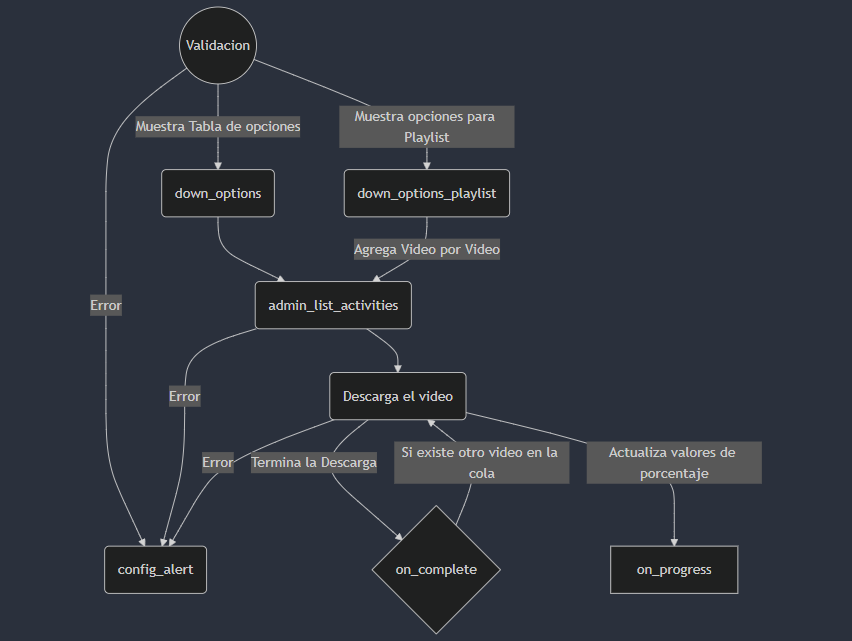
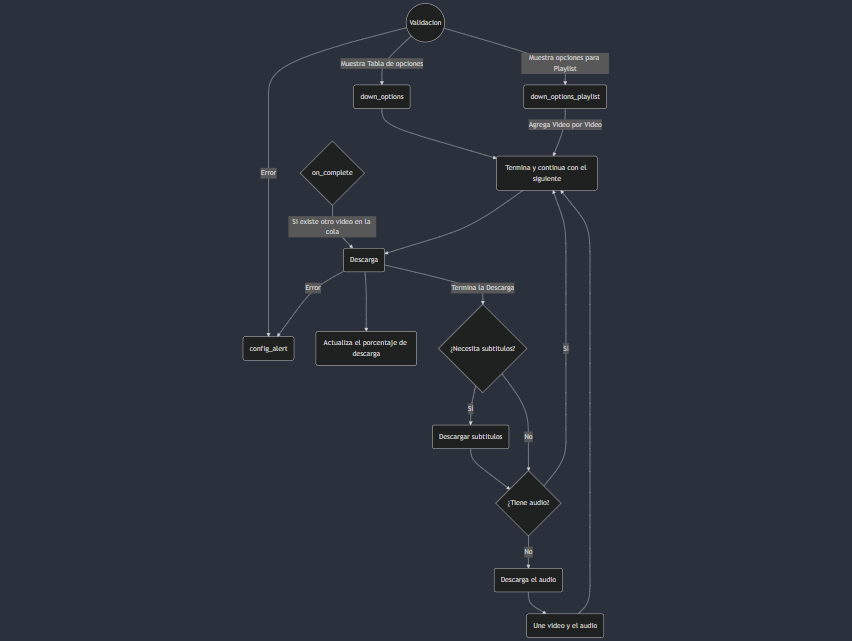
0.7.10b

diff --git a/main.py b/main.py
@@ -1,3 +1,8 @@
+import os.path
+import threading
+import time
+from math import floor
+
 import flet as ft
 from os import remove
 from moviepy.editor import *
@@ -5,7 +10,7 @@ from urllib import error
 from pytubefix import YouTube, Stream, Playlist, exceptions, StreamQuery, Caption
 from DownActivity import DownActivity
 from DownOption import DownOption
-from util import parsing_name_file
+from util import parsing_name_file, wrap_text
 
 DownActivitiesList: list[DownActivity] = []
 
@@ -41,8 +46,17 @@ def main(page: ft.Page):
     )
 
     list_down_options = ft.Column(
-        alignment=ft.MainAxisAlignment.SPACE_EVENLY,
+        alignment=ft.MainAxisAlignment.CENTER,
+        horizontal_alignment=ft.CrossAxisAlignment.CENTER,
+        width=1200,
         controls=[]
+    )
+
+    cancel_download_button = ft.IconButton(
+        icon=ft.icons.CLOSE,
+        icon_size=30,
+        disabled=True,
+        on_click=lambda e: cancel_download()
     )
 
     progress_ring = ft.Row([
@@ -69,7 +83,42 @@ def main(page: ft.Page):
 
         page.update()
 
+    def on_progress_conv(output_path: str, final_size):
+        # Hace un tiempo de espera antes de leer el archivo
+        # para que pueda encontrar el archivo exportado
+        time.sleep(5)
+
+        while True:
+            try:
+                file_size = os.path.getsize(output_path)
+                progress = (file_size / final_size) * 100
+                if progress >= 99:
+                    break
+                DownActivitiesList[0].set_progress_value(progress)
+                page.update()
+                time.sleep(3)
+            except FileNotFoundError:
+                time.sleep(10)
+                continue
+
+    def cancel_download():
+        list_down_options.controls.clear()
+        search_button.disabled = False
+        textfield_url.disabled = False
+        textfield_url.value = ""
+        page.update()
+
     def show_alert_error(err) -> ft.AlertDialog:
+        search_button.disabled = False
+        textfield_url.disabled = False
+        cancel_download_button.disabled = True
+        page.remove(progress_ring)
+
+        if len(DownActivitiesList) == 0:
+            estado.visible = False
+
+        page.update()
+
         alert = ft.AlertDialog(
             modal=True,
             adaptive=True,
@@ -79,7 +128,6 @@ def main(page: ft.Page):
                 ft.TextButton("Cerrar", on_click=lambda e: page.close(alert)),
             ],
         )
-
         return alert
 
     def on_progress(stream: Stream, chunk, bytes_remaining):
@@ -88,11 +136,6 @@ def main(page: ft.Page):
         porcent = bytes_dowloaded / total_filesize * 100
 
         DownActivitiesList[0].set_progress(round(porcent))
-        page.update()
-
-    def on_progress_convert():
-        DownActivitiesList[0].progress_bar.value = None
-        DownActivitiesList[0].progress_label.value = "Convirtiendo..."
         page.update()
 
     def admin_list_activities(stream: Stream = None, path: str = "", next_process: bool = False):
@@ -124,6 +167,7 @@ def main(page: ft.Page):
         try:
             search_button.disabled = True
             textfield_url.disabled = True
+            cancel_download_button.disabled = False
             page.add(progress_ring)
             page.update()
 
@@ -138,17 +182,8 @@ def main(page: ft.Page):
             page.update()
         except exceptions.RegexMatchError:
             page.open(show_alert_error("URL Inválida"))
-            search_button.disabled = False
-            textfield_url.disabled = False
-            page.remove(progress_ring)
-            page.update()
         except Exception as err:
-            page.open(show_alert_error(err))
-            print(type(err))
-            search_button.disabled = False
-            textfield_url.disabled = False
-            page.remove(progress_ring)
-            page.update()
+            page.open(show_alert_error(f"{type(err)} : {err}"))
 
     def download(stream: Stream, path: str = ""):
         yt: YouTube = YouTube(textfield_url.value)
@@ -170,13 +205,21 @@ def main(page: ft.Page):
                     if caption is not None:
                         caption.download(title=yt.title, output_path=path)
                 if not stream.is_progressive:
-                    on_progress_convert()
-                    audio_path = yt.streams.get_audio_only().download(path, mp3=True, filename=parsing_name_file(DownActivitiesList[0].yt.title))
+                    DownActivitiesList[0].progress_label.value = "Convirtiendo..."
+                    page.update()
+                    audio_path = yt.streams.get_audio_only().download(path, mp3=True, filename=parsing_name_file(
+                        DownActivitiesList[0].yt.title))
                     video = VideoFileClip(video_path)
                     audio = AudioFileClip(audio_path)
                     video.audio = CompositeAudioClip([audio])
+                    output_path = f"{path}\\{parsing_name_file(yt.title)}[{stream.resolution}].mp4"
+
+                    total_size = os.path.getsize(video_path) + os.path.getsize(audio_path)
+                    t = threading.Thread(target=on_progress_conv, args=(output_path, total_size))
+                    t.start()
                     video.write_videofile(
-                        f"{path}\\{parsing_name_file(yt.title)}[{stream.resolution}].mp4", threads=4)
+                        filename=output_path, threads=8, fps=30)
+                    t.join()
                     remove(video_path)
                     remove(audio_path)
             del DownActivitiesList[0]
@@ -185,20 +228,8 @@ def main(page: ft.Page):
             admin_list_activities(next_process=True)
         except error.URLError:
             page.open(show_alert_error("Revise su red, podría estar desconectado..."))
-            list_activity.controls.clear()
-            textfield_url.disabled = False
-            search_button.disabled = False
-            estado.visible = False
-            list_activity.controls.clear()
-            page.update()
-            return -1
         except Exception as err:
             page.open(show_alert_error(f"{type(err)} : {err}"))
-            textfield_url.disabled = False
-            search_button.disabled = False
-            estado.value = False
-            list_activity.controls.clear()
-            page.update()
 
     def download_playlist(playlist: Playlist, type_content: str):
         list_down_options.controls = []
@@ -233,25 +264,10 @@ def main(page: ft.Page):
         except FileExistsError:
             page.open(show_alert_error(
                 f"La carpeta {playlist.title} ya está creada, eliminela y luego inserte de nuevo la playlist"))
-            textfield_url.disabled = False
-            search_button.disabled = False
-            if len(DownActivitiesList) == 0:
-                estado.visible = False
-            page.remove(progress_ring)
         except error.URLError:
             page.open(show_alert_error("Revise su red, podría estar desconectado..."))
-            textfield_url.disabled = False
-            search_button.disabled = False
-            if len(DownActivitiesList) == 0:
-                estado.visible = False
-            page.remove(progress_ring)
         except Exception as err:
-            page.open(show_alert_error(err))
-            list_activity.controls.clear()
-            textfield_url.disabled = False
-            search_button.disabled = False
-            estado.visible = False
-            page.update()
+            page.open(show_alert_error(f"{type(err)} : {err}"))
 
         if textfield_path_file.value == "":
             admin_list_activities(path=playlist_path, next_process=True)
@@ -269,6 +285,16 @@ def main(page: ft.Page):
             captions_options.options.append(
                 ft.dropdown.Option(caption.code, caption.name)
             )
+
+        list_down_options.controls.append(
+            ft.Row(
+                controls=[
+                    ft.Image(yt.thumbnail_url, width=240),
+                    ft.Text(wrap_text(yt.title), size=30),
+                ],
+                spacing=30
+            )
+        )
 
         list_down_options.controls.append(
             ft.DataTable(
@@ -347,6 +373,7 @@ def main(page: ft.Page):
                 textfield_url,
                 search_button,
                 captions_options,
+                cancel_download_button,
                 estado
             ],
             alignment=ft.MainAxisAlignment.CENTER

diff --git a/util.py b/util.py
@@ -6,3 +6,9 @@ def parsing_name_file(title: str) -> str | None:
     return (((((((((title.replace("/", "")).replace("\\", "")).replace(":", "")).replace("*",
                                                                                          "")).replace(
         "?", "")).replace("\"", "")).replace("<", "")).replace(">", "")).replace("|", "")).strip()
+
+
+def wrap_text(text: str) -> str:
+    if len(text) > 45:
+        text = text[0:45] + " ..."
+    return text

diff --git a/DownActivity.py b/DownActivity.py
@@ -26,3 +26,6 @@ class DownActivity:
     def set_progress(self, progress: int):
         self.progress_bar.value = progress / 100
         self.progress_label.value = f"{progress}%"
+
+    def set_progress_value(self, progress):
+        self.progress_bar.value = progress / 100

diff --git a/README.md b/README.md
@@ -1,4 +1,4 @@
-# Proyecto PyDownVideo (Versión 0.7.6)
+# Proyecto PyDownVideo (Versión 0.7.13)
 
 <div style="display: flex; justify-content: center; gap:100px;">
     <img src="./src/python.png" alt="PyDownVideo Logo" width="120"/>
@@ -11,6 +11,7 @@ Este proyecto trata sobre la creación de un programa escrito en Python con el p
 ## Librerías utililzadas para su desarrollo:
 - Flet (Para el llamativo diseño)
 - Pytubefix (Para hacer posible descargar los videos de Youtube)
+- MoviePy (Para realizar conversiones y unir videos no progresivos de pytubefix)
 
 # Diseño de la Clase DownActivity
 
@@ -37,10 +38,11 @@ Este proyecto trata sobre la creación de un programa escrito en Python con el p
 - **estado**: componente que muestra si se está descargando un video o no.
 - **search_button**: botón que ejecuta la funcion de validación.
 - **textfield_url**: componente en donde agregaremos la URL del video a descargar.
+- **cancel_download_button**: botón que se encarga de cancelar la selección del video que se descargará
 
 # Funciones Importantes 
 
-### validacion
+### validation
 Esta función se encargará de validar la URL insartada en **textfield_url**, además de verificar si es una Playlist o un video solamente.
 
 ### down_options
@@ -73,8 +75,32 @@ def on_progress(stream: Stream, chunk, bytes_remaining):
 
     page.update()
 ```
-
 Este calcula el porcentaje de descarga y al primer video de la cola de descargas le actualiza su porcentaje.
+
+### on_progress_conv
+```python
+def on_progress_conv(output_path: str, final_size):
+    time.sleep(5)
+
+    while True:
+        try:
+            file_size = os.path.getsize(output_path)
+            progress = (file_size / final_size) * 100
+            if progress >= 99:
+                break
+            DownActivitiesList[0].set_progress_value(progress)
+            page.update()
+            time.sleep(3)
+        except FileNotFoundError:
+            time.sleep(10)
+            continue
+```
+Esta función se ejecutará en un hila aparte (usando el módulo threading de python).
+En donde intentará abrir el archivo que exportará MoviePy, si no lo encuentra (FileNotFoundError) espera otros 10seg para volver a verificar, 
+si el archivo está, calculará el tamaño del archivo de salida y sacará el porcentaje según el total de la suma del video y audio mezclados 
+(que da el total qeu ocupa el archivo de salida) y lo multiplica por 100 para obtener el porcentaje, si es mayor de 99 o igual 
+(se hace así ya que el total y la parte calculadas son aproximadas) termina el thread, de caso contrario actualizará el porcentaje 
+mostrado, actualizará y esperará otros 3seg para calcular nuevamente el porcentaje.
 
 ## DownActivitiesList
 El programa también posee esta lista en la cual se agregarán objetos de DownActivity. Esta es la cola principal de descargas, que posteriormente es administrada por otras funcionas. 
@@ -82,4 +108,4 @@ El programa también posee esta lista en la cual se agregarán objetos de DownAc
 # Flujo de actividades
 
 ## Flujo de descarga
-<img src="src/mermaid.live_view.png" />
+<img src="src/mermaid.live_view_short.png" />

diff --git a/NEWS.md b/NEWS.md
@@ -1,3 +1,9 @@
+# Version 0.7.10
+- Mejora del diseño.
+- Agrego de botón para cancelar la selección de video a descargar
+- Mejora de la documentación del proyecto.
+- Optimización de la conversión de videos.
+
 # Version 0.7.6
 - Cambios en el rendimiento y lógica del código del programa.
 
